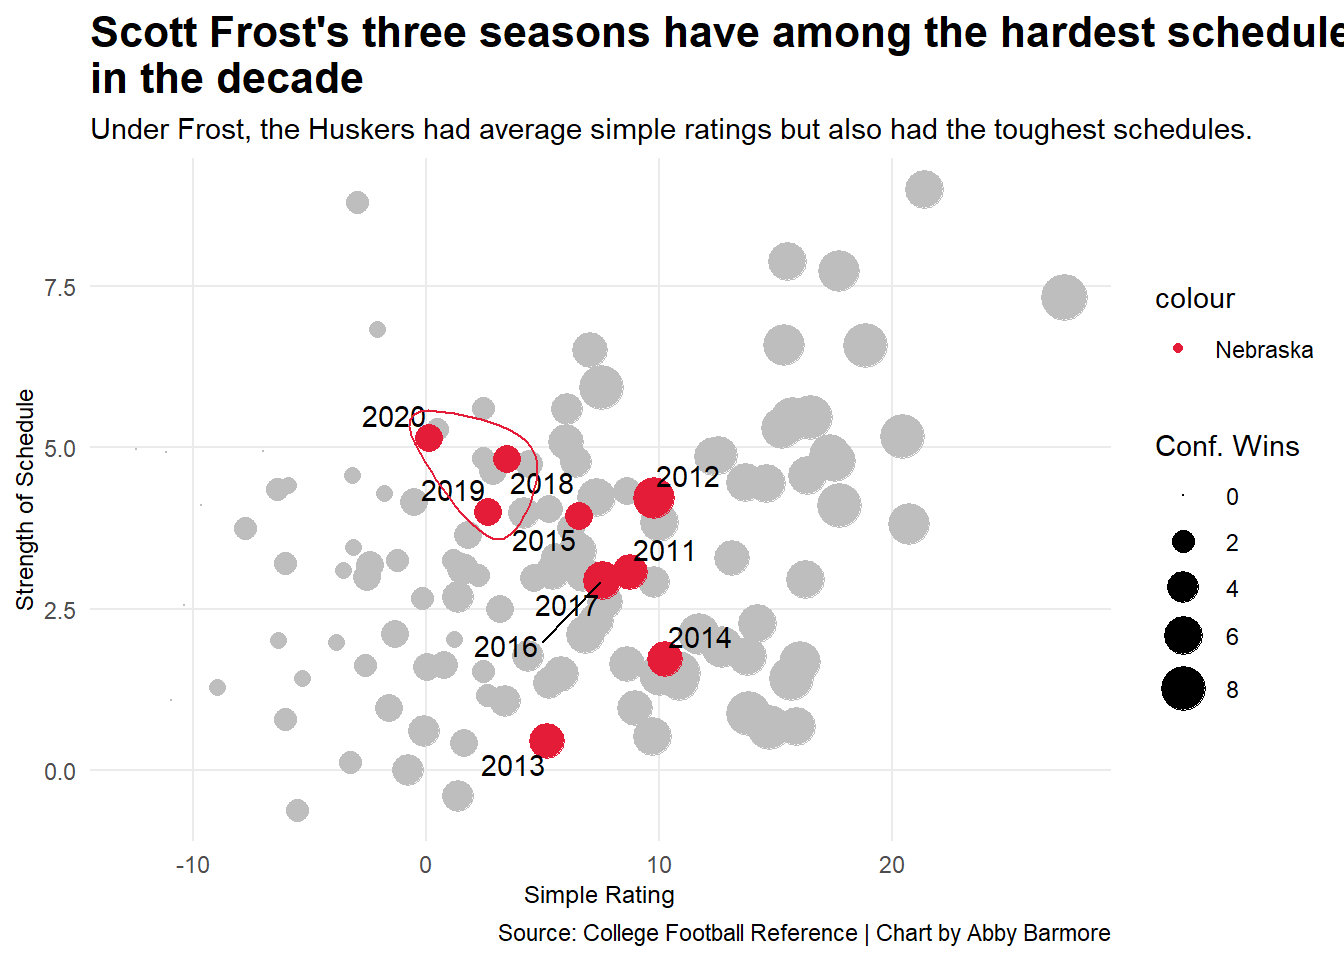
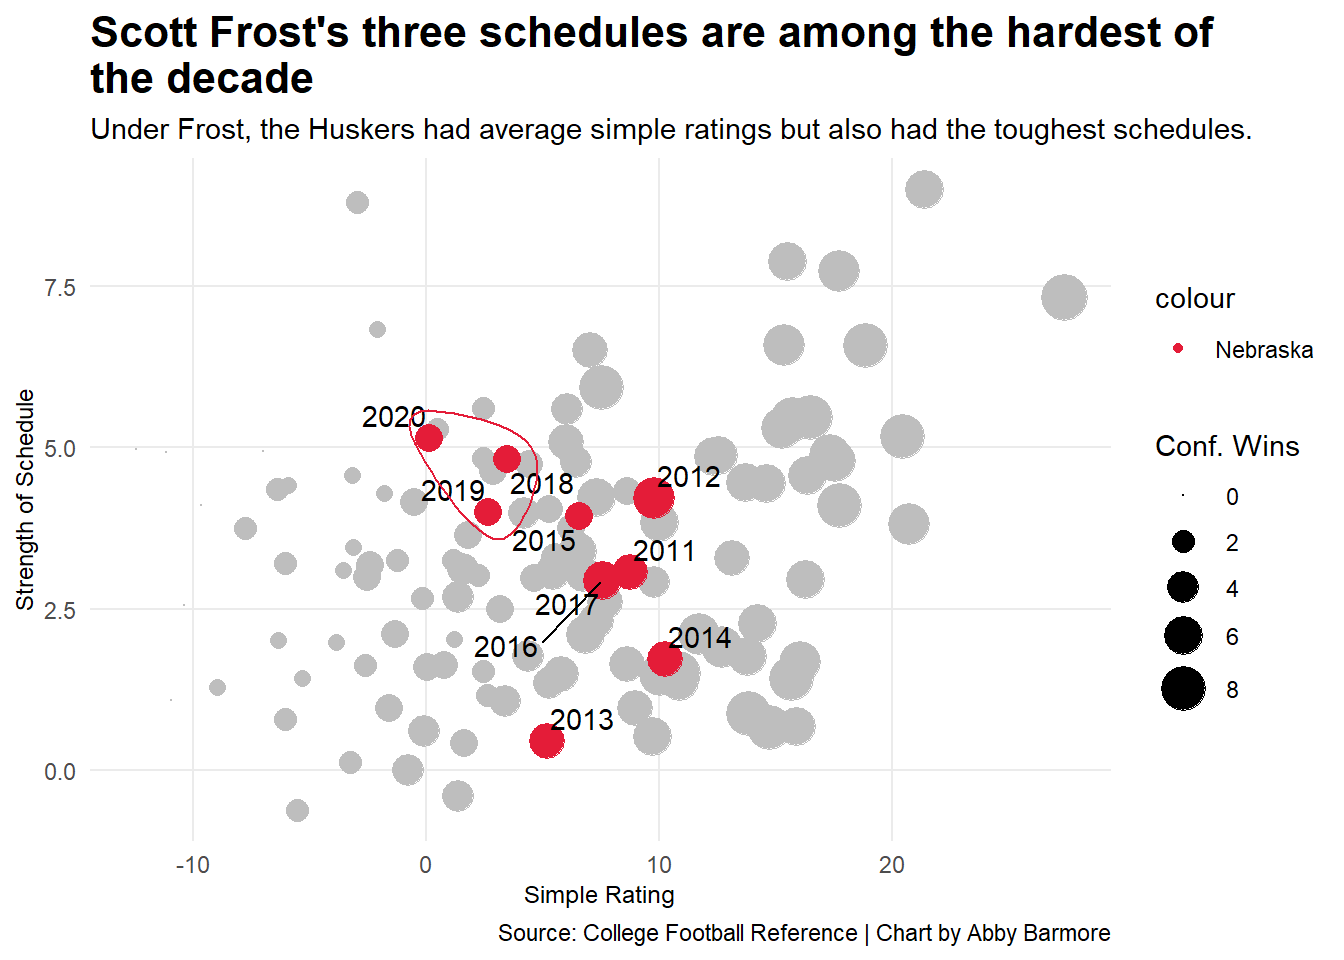
Updates to project 1

diff --git a/2021/04/02/is-big-ten-football-more-competitive-in-the-scott-frost-era/index.html b/2021/04/02/is-big-ten-football-more-competitive-in-the-scott-frost-era/index.html
@@ -209,7 +209,7 @@ up &lt;- teamseason %&gt;% filter(Team == &#39;Purdue&#39;)</code></pre>
   labs(
     x=&quot;Simple Rating&quot;, 
     y=&quot;Strength of Schedule&quot;, 
-    title=&quot;Scott Frost&#39;s three seasons have among the hardest schedules \nin the decade&quot;, 
+    title=&quot;Scott Frost&#39;s three schedules are among the hardest of \nthe decade&quot;, 
     subtitle=&quot;Under Frost, the Huskers had average simple ratings but also had the toughest schedules.&quot;, 
     caption=&quot;Source: College Football Reference | Chart by Abby Barmore&quot;) +
   theme_minimal() +
